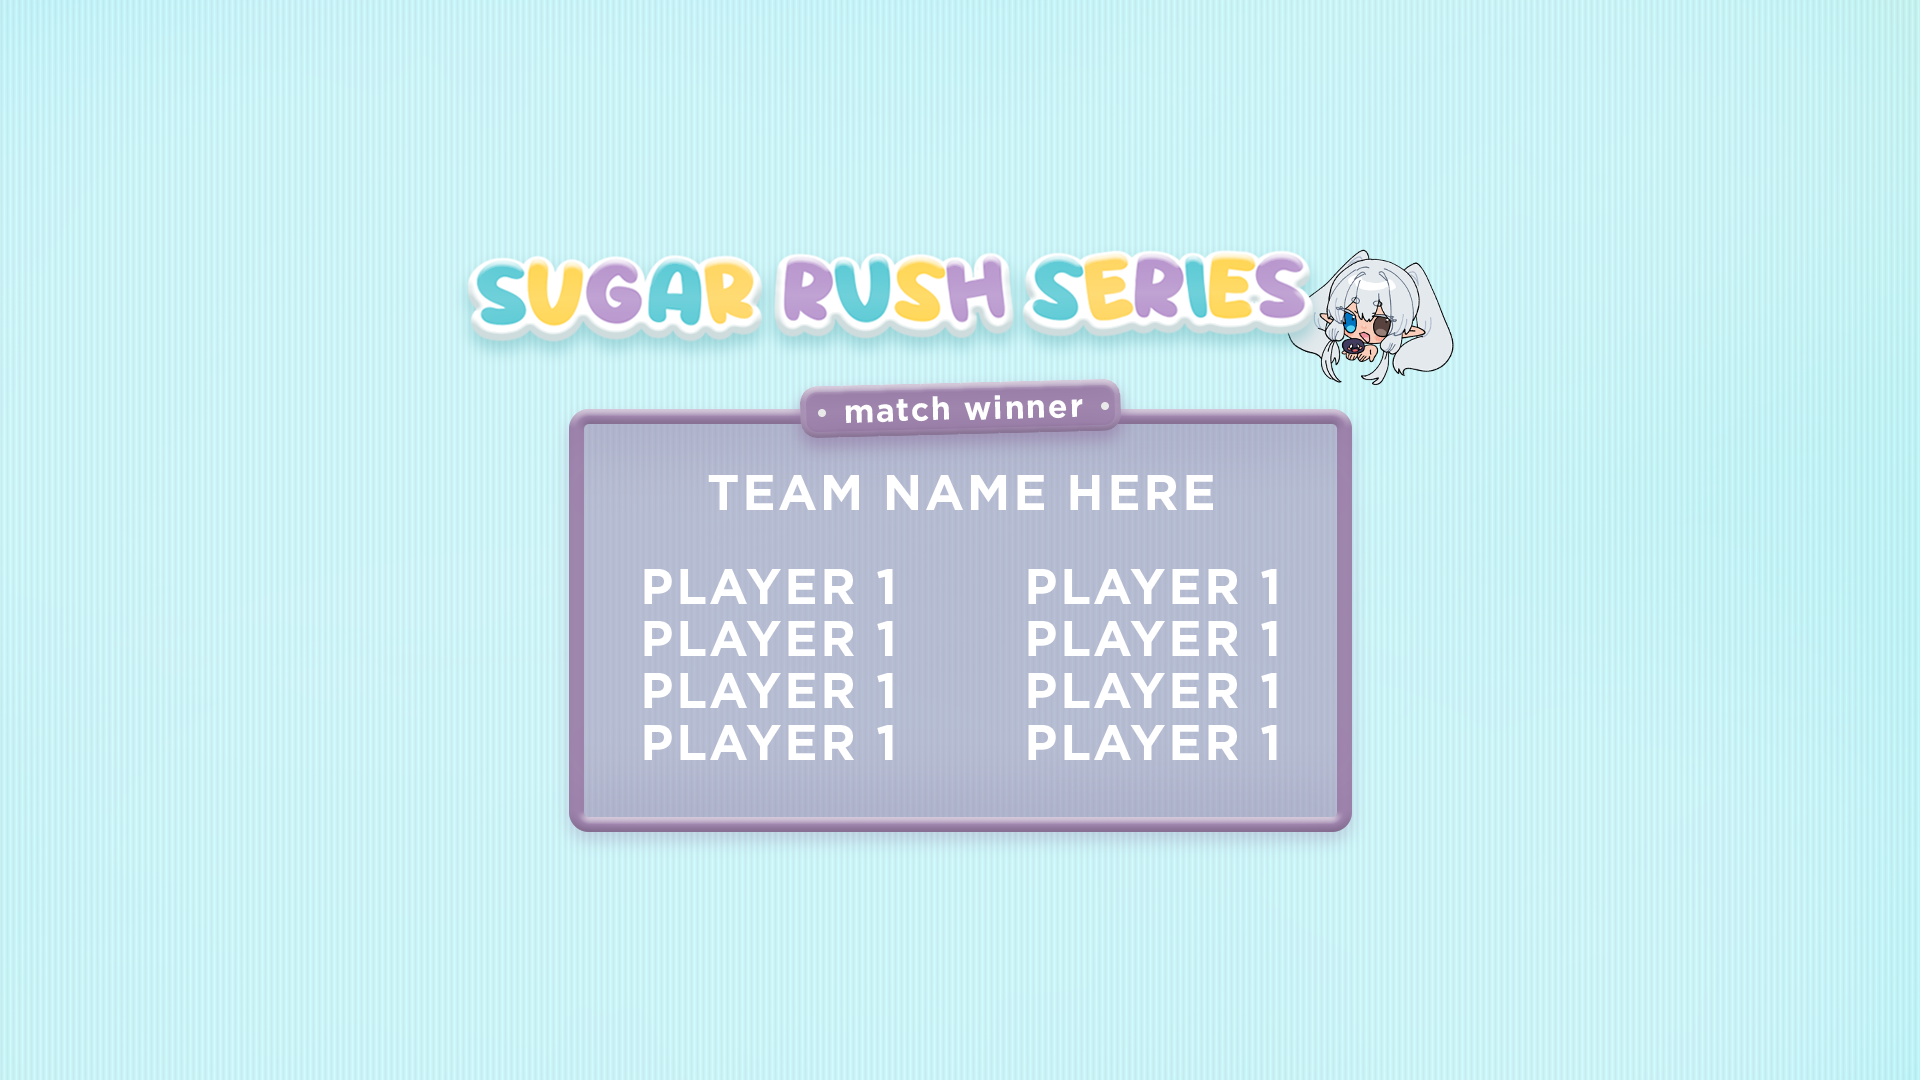
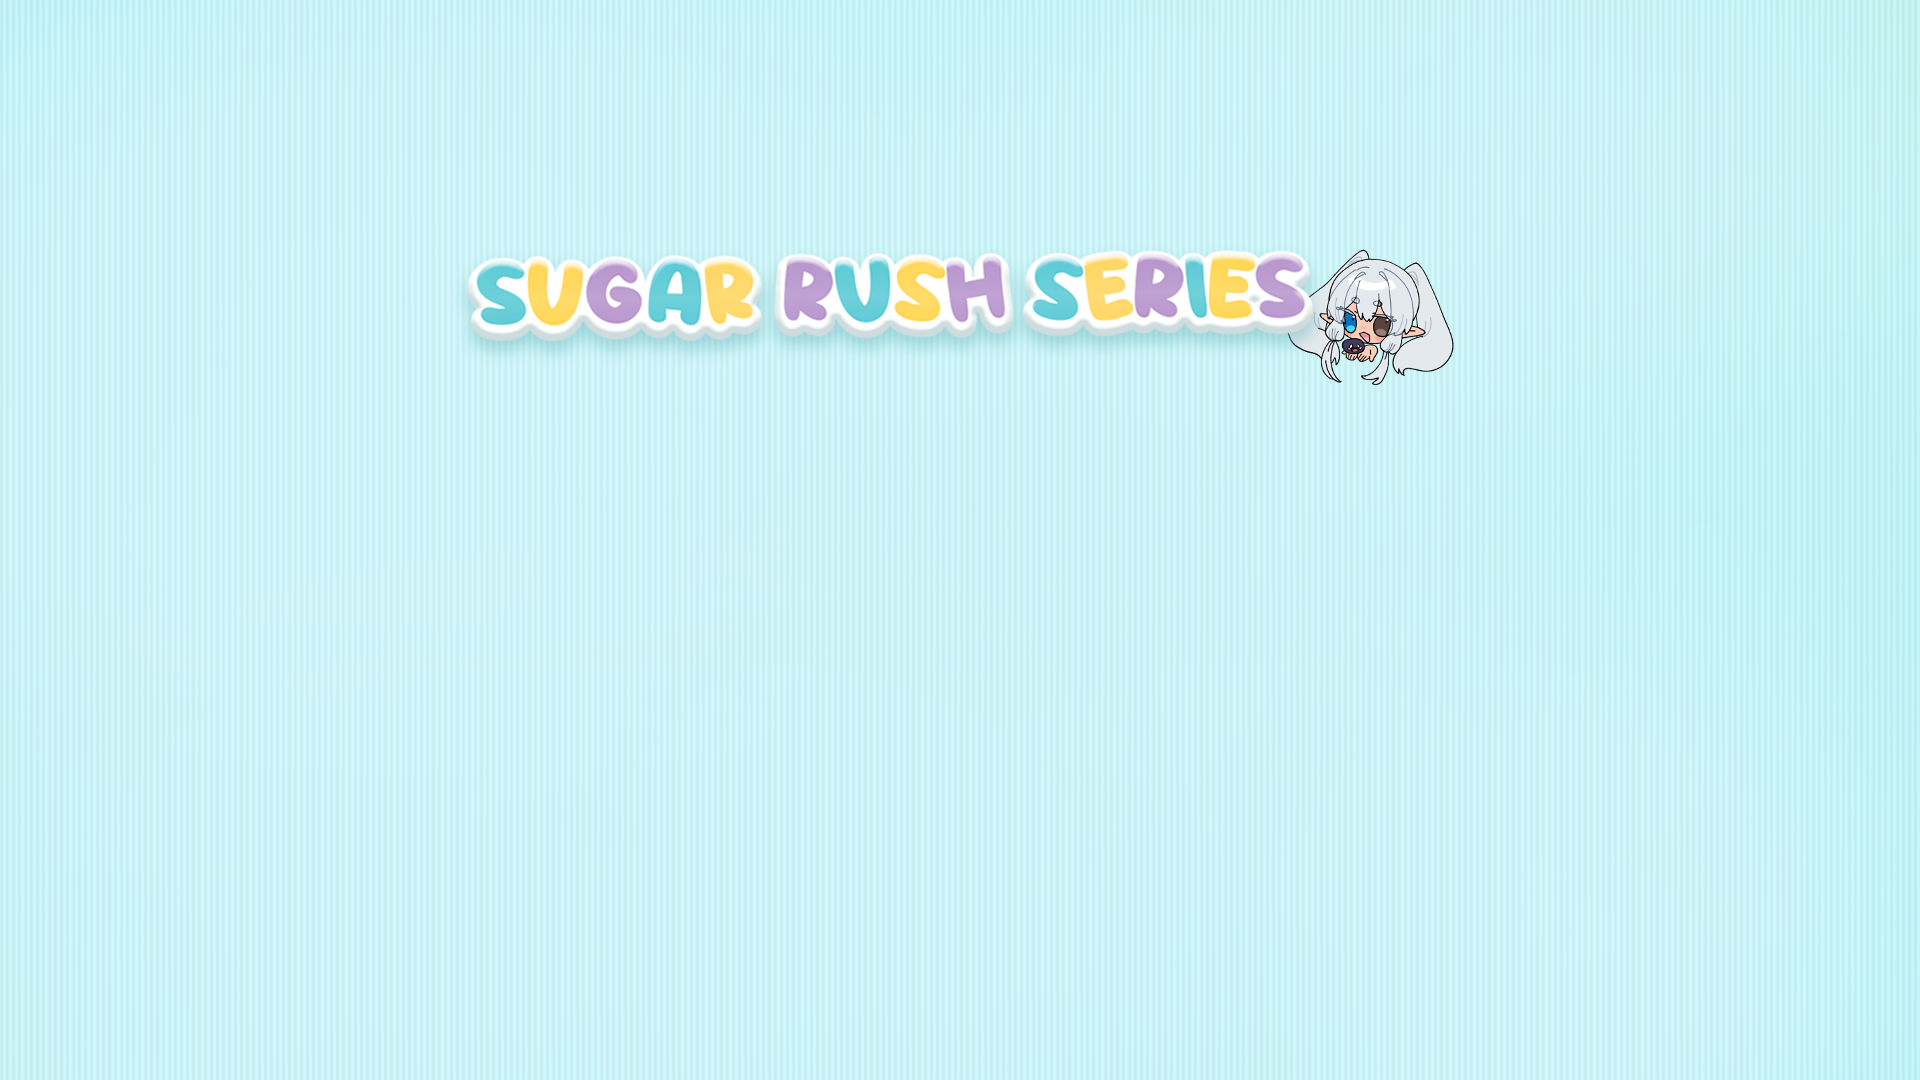
Complete team win

Changed region(s): [[0.2812, 0.3361, 0.7188, 0.7944]]

diff --git a/teamwin/index.js b/teamwin/index.js
@@ -1,0 +1,57 @@
+
+// Team Information
+let allTeams
+async function getTeams() {
+    const response = await fetch("http://127.0.0.1:24050/SRS/_data/teams.json")
+    const teamData = await response.json()
+    allTeams = teamData
+}
+getTeams()
+
+// Get cookie function
+function getCookie(name) {
+    let nameEQ = name + "="
+    let cookies = document.cookie.split(';')
+    
+    for(let i = 0; i < cookies.length; i++) {
+        let cookie = cookies[i].trim()
+        if (cookie.indexOf(nameEQ) === 0) {
+            return cookie.substring(nameEQ.length, cookie.length)
+        }
+    }
+    return null
+}
+
+// Current team
+const teamWinColourEl = document.getElementById("teamWinColour")
+const teamNameEl = document.getElementById("teamName")
+const teamDetailsEl = document.getElementById("teamDetails")
+let currentTeamName
+
+setInterval(() => {
+    // Only after teams load
+    if (!allTeams) return
+
+    // Check team and colour
+    let tempTeamName = getCookie("winnerTeamName")
+    let teamColour = getCookie("winnerTeamColour")
+
+    if (tempTeamName !== currentTeamName) {
+        currentTeamName = tempTeamName
+        teamNameEl.innerText = currentTeamName
+        teamWinColourEl.setAttribute("src", `static/${teamColour} win.png`)
+
+        for (let i = 0; i < allTeams.length; i++) {
+            if (currentTeamName !== allTeams[i].teamName) continue
+            teamDetailsEl.innerHTML = ""
+
+            for (let j = 0; j < allTeams[i].players.length; j++) {
+                const teamPlayer = document.createElement("div")
+                teamPlayer.classList.add("teamPlayer")
+                teamPlayer.innerText = allTeams[i].players[j]
+                teamDetailsEl.append(teamPlayer)
+            }
+            break
+        }
+    }
+}, 500)

diff --git a/teamwin/index.html b/teamwin/index.html
@@ -9,17 +9,9 @@
 </head>
 <body>
     <div id="main">
-        <div id="teamName">TEAM NAME HERE</div>
-        <div id="teamDetails">
-            <div class="teamPlayer">PLAYER 1</div>
-            <div class="teamPlayer">PLAYER 1</div>
-            <div class="teamPlayer">PLAYER 1</div>
-            <div class="teamPlayer">PLAYER 1</div>
-            <div class="teamPlayer">PLAYER 1</div>
-            <div class="teamPlayer">PLAYER 1</div>
-            <div class="teamPlayer">PLAYER 1</div>
-            <div class="teamPlayer">PLAYER 1</div>
-        </div>
+        <img id="teamWinColour" src="static/blue win.png">
+        <div id="teamName"></div>
+        <div id="teamDetails"></div>
     </div>
 
     <script src="index.js"></script>

diff --git a/main/index.js b/main/index.js
@@ -107,6 +107,15 @@ socket.onmessage = event => {
         i = 0
         for (i; i < currentBlueTeamStars; i++) blueTeamStarsEl.append(createStar("blue"))
         for (i; i < currentFirstTo; i++) blueTeamStarsEl.append(createStar("none"))
+
+        // Set winner
+        if (currentPurpleTeamStars === currentFirstTo) {
+            document.cookie = `winnerTeamName=${currentPurpleTeamName}; path=/`
+            document.cookie = `winnerTeamColour=purple; path=/`
+        } else if (currentBlueTeamStars === currentFirstTo) {
+            document.cookie = `winnerTeamName=${currentBlueTeamName}; path=/`
+            document.cookie = `winnerTeamColour=blue; path=/`
+        }
     }
 
     // Star visible

diff --git a/teamwin/style.css b/teamwin/style.css
@@ -18,6 +18,12 @@
     font-size: 50px;
 }
 
+/* Team Win Colour */
+#teamWinColour {
+    position: absolute; left: 50%; top: 370px;
+    transform: translateX(-50%);
+}
+
 /* Team Name */
 #teamName {
     position: absolute; left: 50%; top: 462px;
@@ -42,4 +48,7 @@
     width: calc(710px / 2);
     text-align: center;
     margin-bottom: -8px;
+    white-space: nowrap;
+    overflow: hidden;
+    text-overflow: ellipsis;
 }
